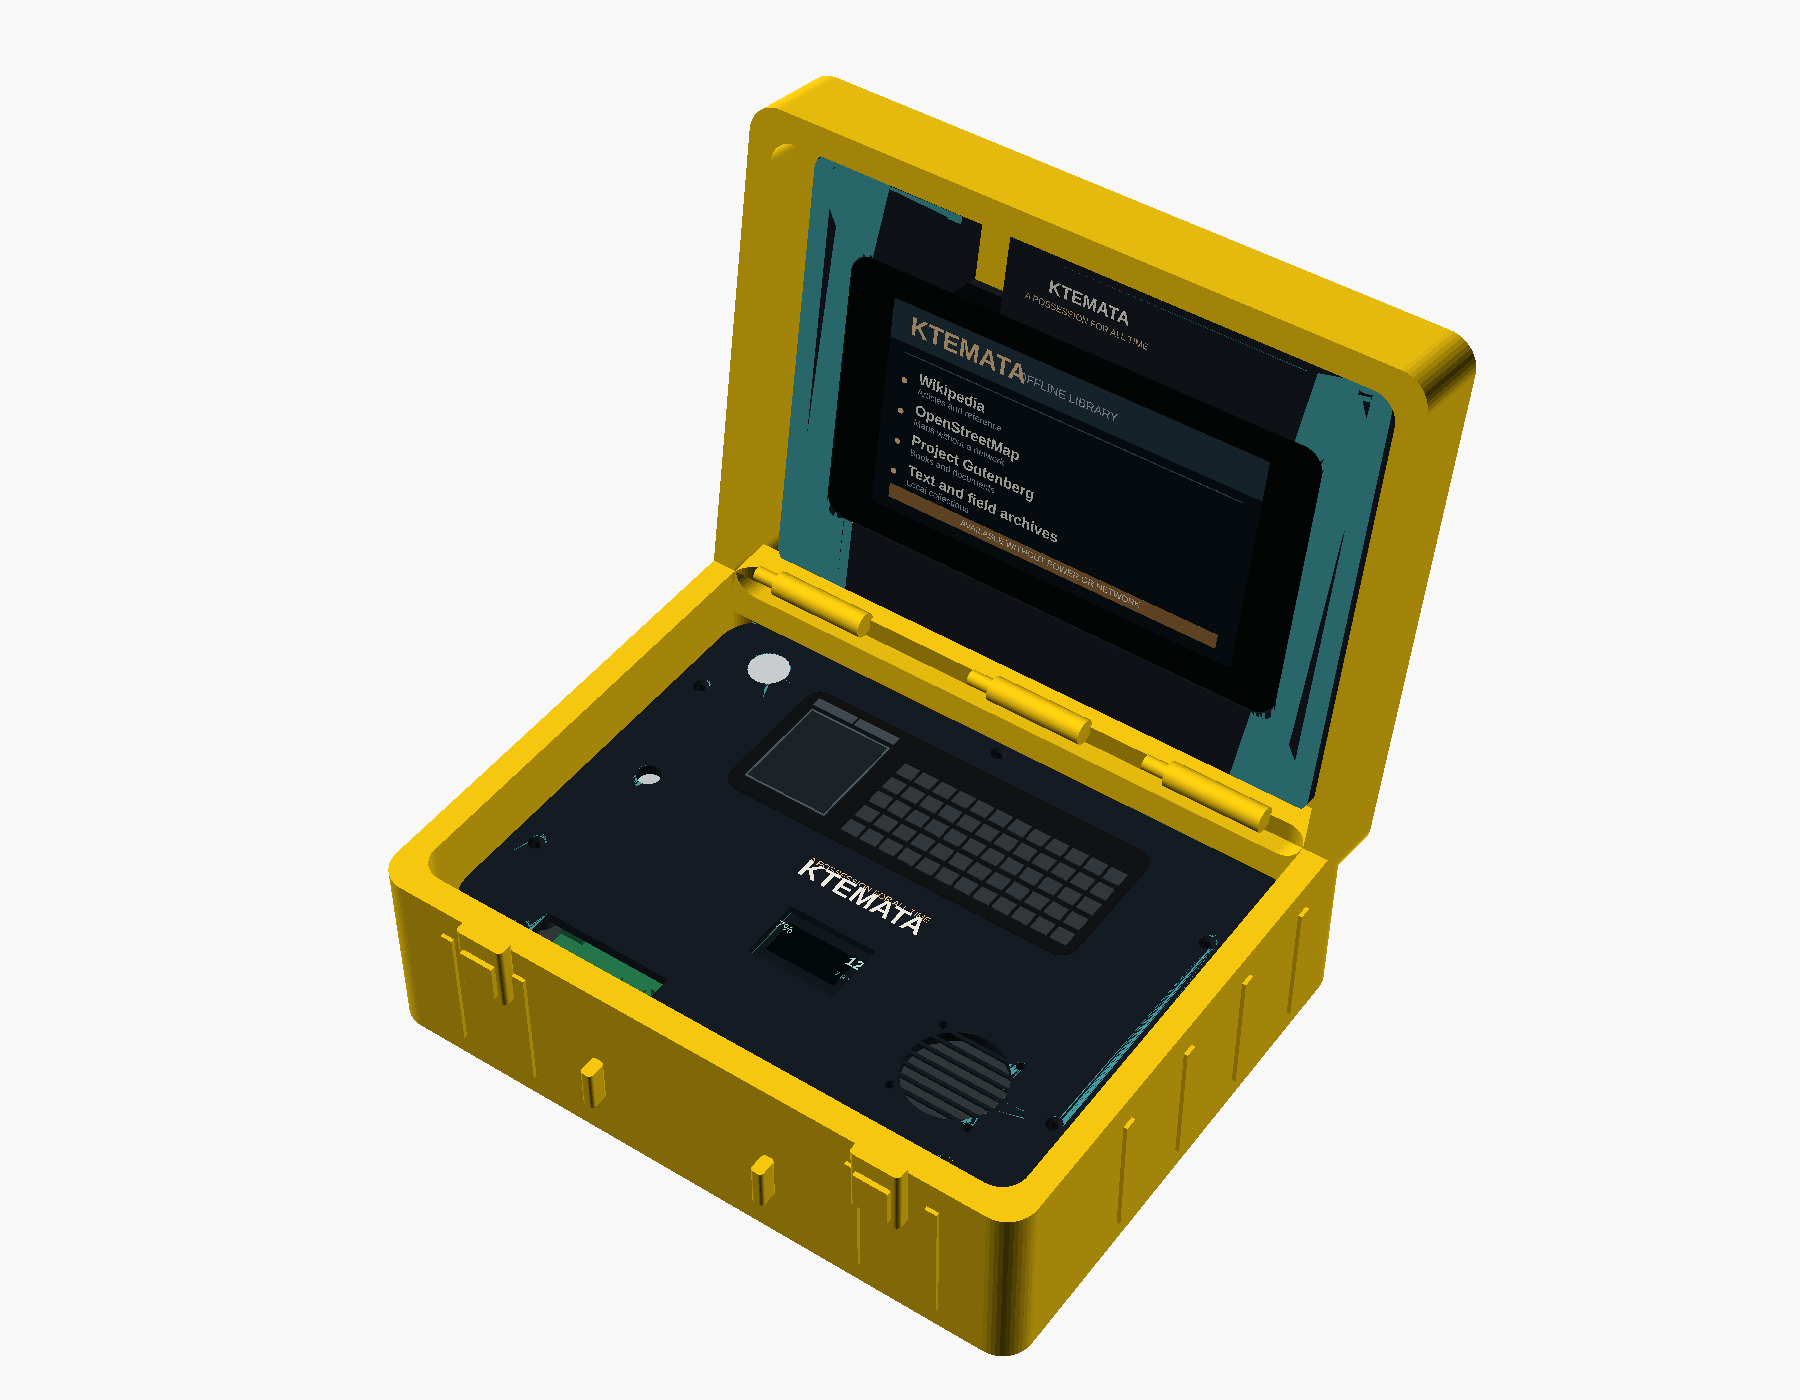
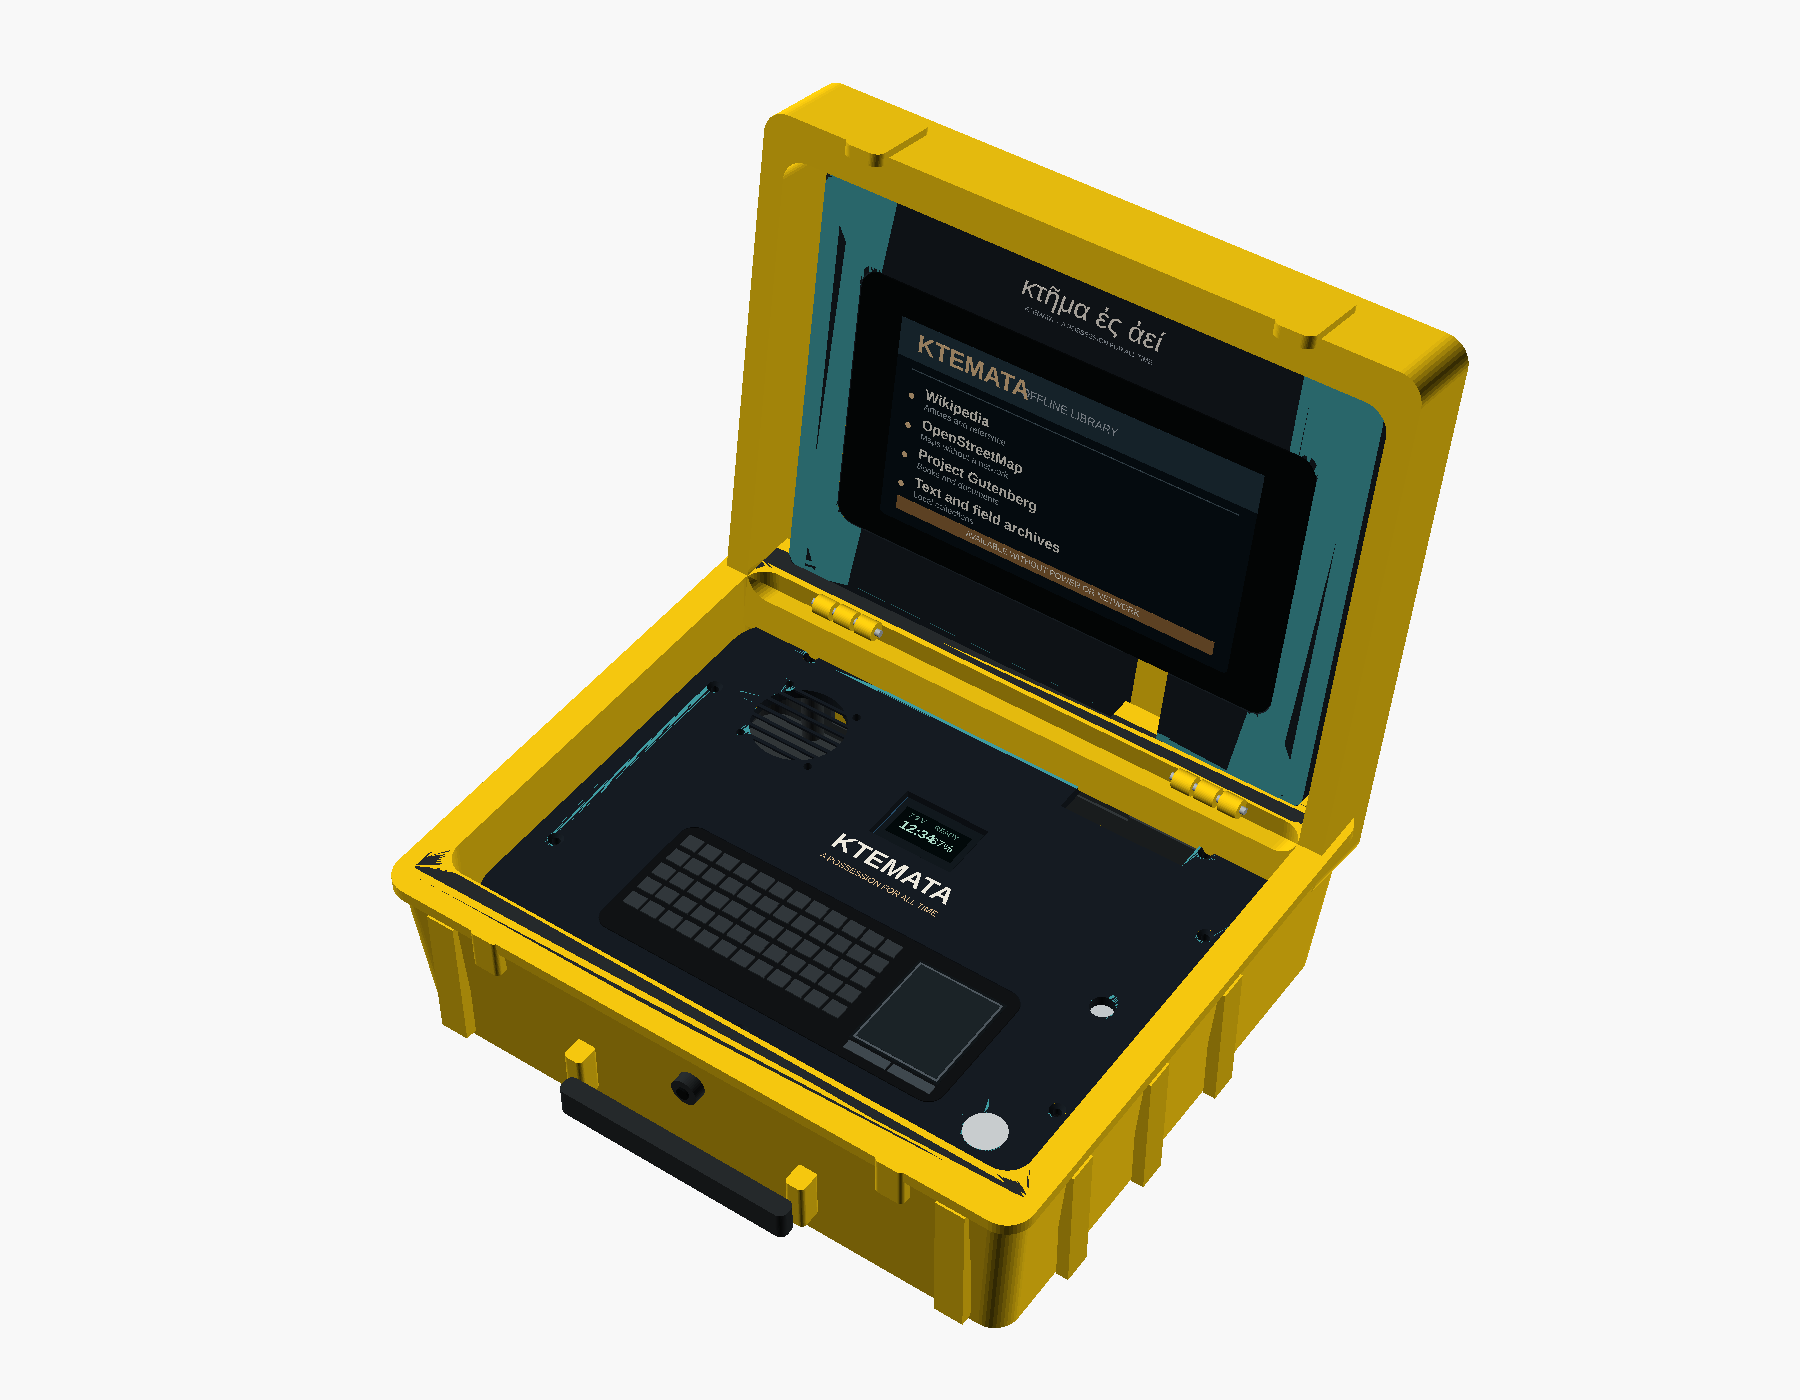
Refine r5 website showcase

Changed region(s): [[0.2178, 0.0307, 0.84, 0.9829]]

diff --git a/site/index.html b/site/index.html
@@ -30,6 +30,11 @@
     Content is managed with Project NOMAD.
   </p>
 
+  <figure>
+    <img src="img/site_r5_showcase.png" width="1200" height="500" alt="Ktemata R5 Showcase">
+    <figcaption>Stylized rendering of the Ktemata R5.</figcaption>
+  </figure>
+
   <h2>The name</h2>
   <p>
     <em>Ktemata</em> (κτήματα) is Greek for &ldquo;possessions, things owned&rdquo;. Thucydides opens his

diff --git a/cad/tools/render_showcase.py b/cad/tools/render_showcase.py
@@ -21,7 +21,7 @@ def main() -> None:
     ap = argparse.ArgumentParser(description=__doc__)
     ap.add_argument("--output", type=Path,
                     default=REPO / "renders" / "r5" / "site_r5_showcase.png")
-    ap.add_argument("--camera", default="0,0,0,45,0,215,0")
+    ap.add_argument("--camera", default="0,0,0,45,0,35,0")
     ap.add_argument("--imgsize", default="1800,1400")
     args = ap.parse_args()
 
